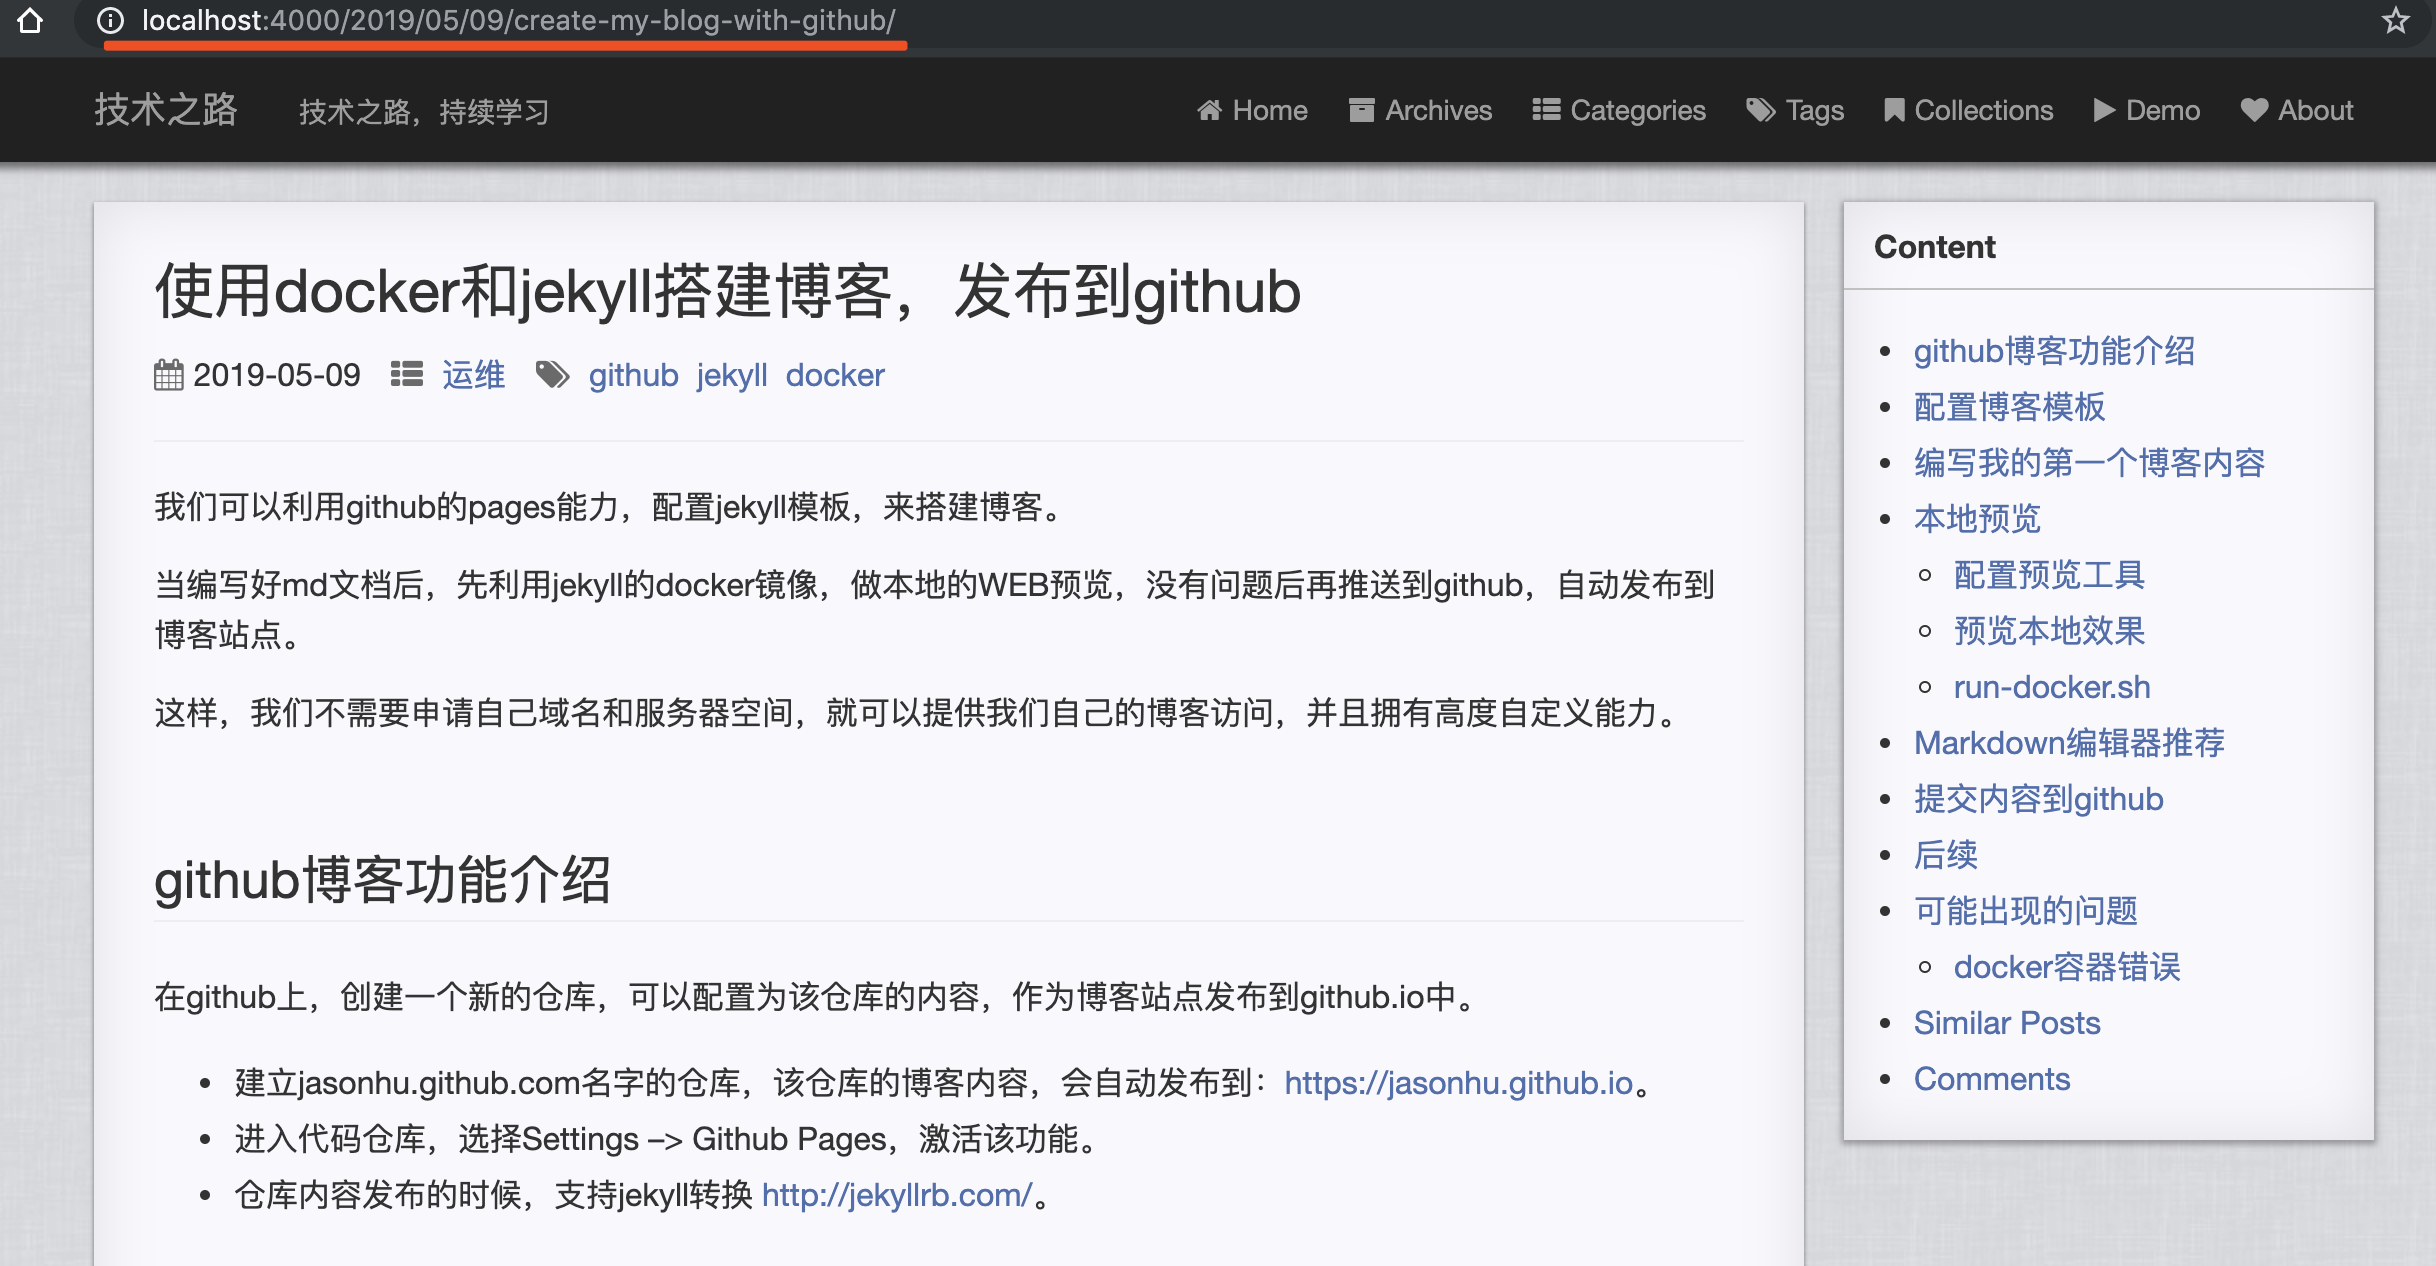
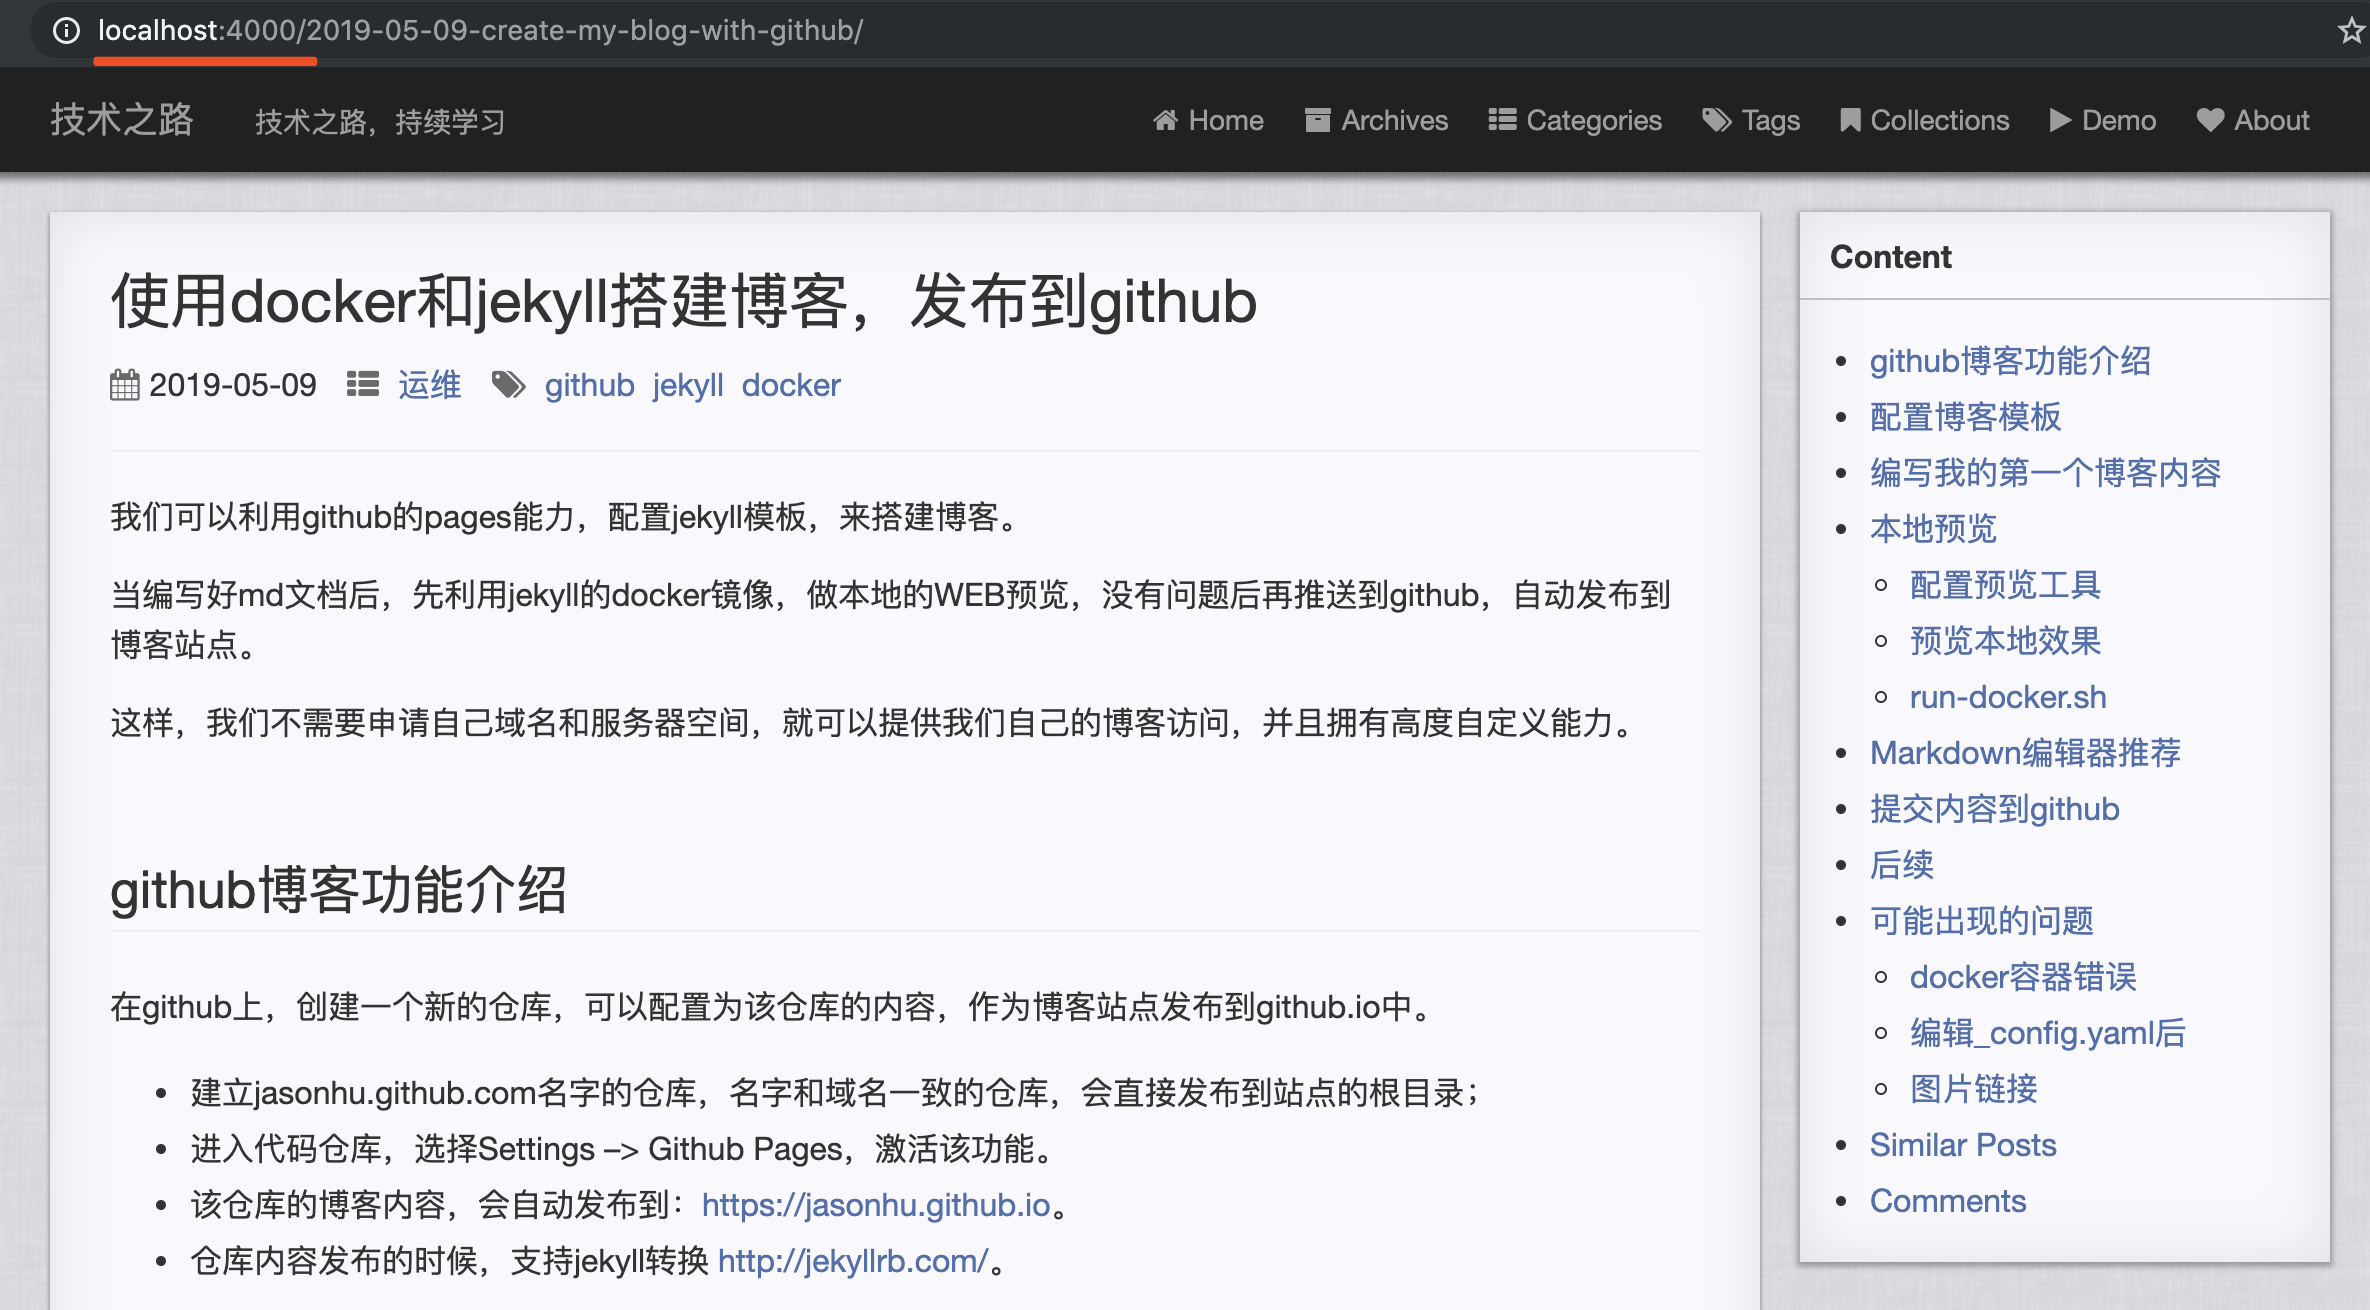
adjust content about image

Changed region(s): [[0.0, 0.0, 1.0, 1.0], [0.9679, 0.0, 0.9992, 0.0308]]

diff --git a/_posts/2019-05-09-create-my-blog-with-github.md b/_posts/2019-05-09-create-my-blog-with-github.md
@@ -82,16 +82,18 @@ $ git push
 
 ## 可能出现的问题
 ### docker容器错误
-当前docker容器执行的时候，会将容器命令为blog_web，当再次运行的时候，如果同名字会报错，这个时候可以先手工删除原来的旧容器
+当前docker容器执行的时候，会将容器命名为blog_web，当再次运行的时候，如果同名字会报错，这个时候需要使用stop和start命令
 ``` shell
 $ docker ps -a       # 查看所有容器清单
 $ docker rm blog_web # 删除blog_web名字的容器
+$ docker stop blog_web # 停止指定容器，建议使用这种方式重启
+$ docker start blog_web # 再次启动指定容器，
 ```
 
 ### 编辑_config.yaml后
 - 当_config.yaml文件修改后，必须重新启动jekyll 的docker容器，配置才会生效，注意手工删除原来的镜像
 
 ### 图片链接
-- 当前_posts的图片链接，采用/images/xxx.png的路径
-- 由于发布网站后的uri地址为:yyyy/mm/dd/title的路径，因此没有办法使用相对路径
-- 由于不是相对路径，因此markdown的预览工具会没法看到图片
+- 由于原来的模板发布网站后的uri地址为:yyyy/mm/dd/title的路径，因此没有办法使用相对路径
+- 调整了网站post的uri地址为yyyy-mm-dd-title，这样post的uri的目录层次，和原始文档的目录层次一样
+- 因此图片地址，直接用本地的相对路径即可，在markdown preview中也可以正常浏览
